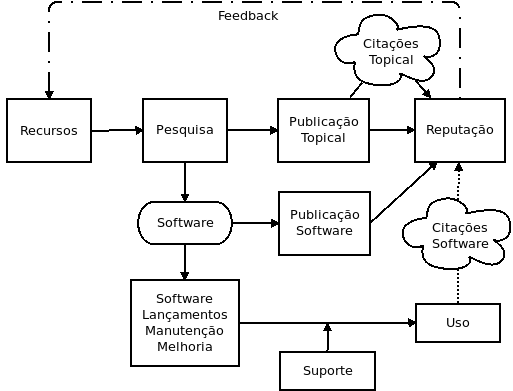
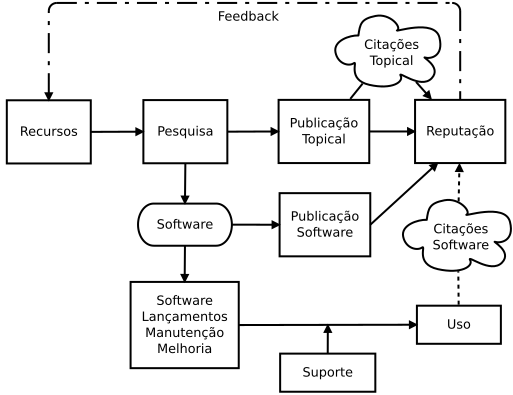
melhorando qualidade da imagem sobre modelo de incentivos/reputacao de software na ciencia

diff --git a/capitulos/secoes/software-academico-de-analise-estatica.tex b/capitulos/secoes/software-academico-de-analise-estatica.tex
@@ -137,7 +137,7 @@ relacionamento entre a prática e a pesquisa de software acadêmico.
 
 \begin{figure}[h]
   \center
-  \includegraphics[scale=0.5]{imagens/scientific-reputation-diagram.png}
+  \includegraphics[scale=0.35]{imagens/scientific-reputation-diagram.png}
   \caption{Uma visão dos incentivos de reputação num contexto misto entre Ciência e práticas de software acadêmico \cite{howison2011scientific}}
   \label{scientific-reputation-diagram}
 \end{figure}
